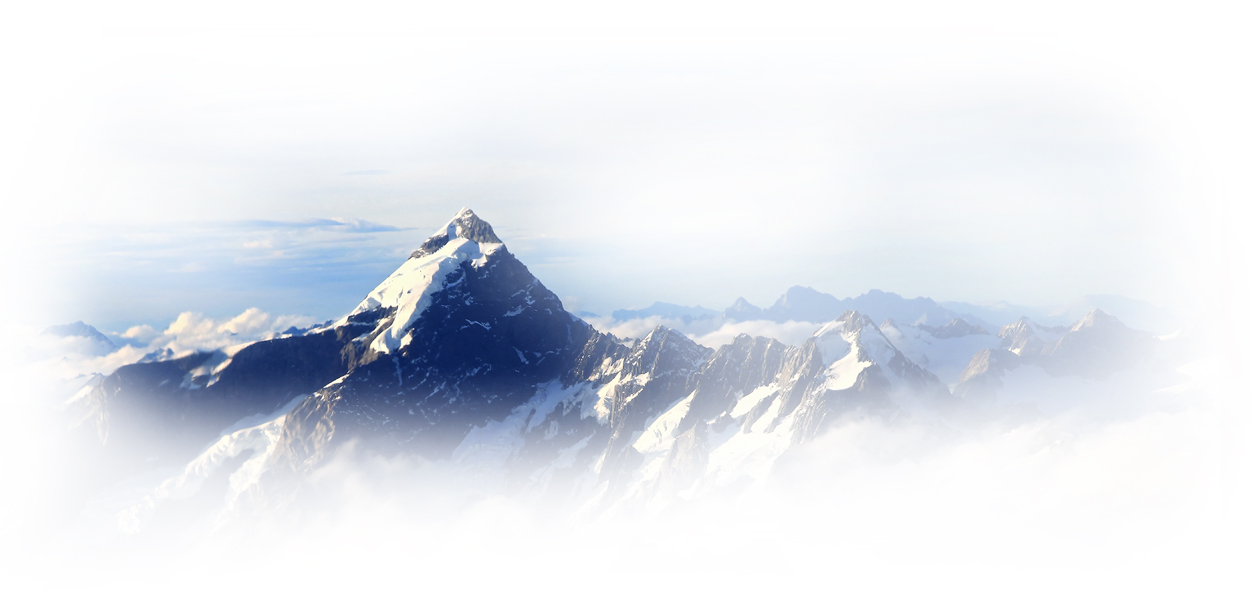
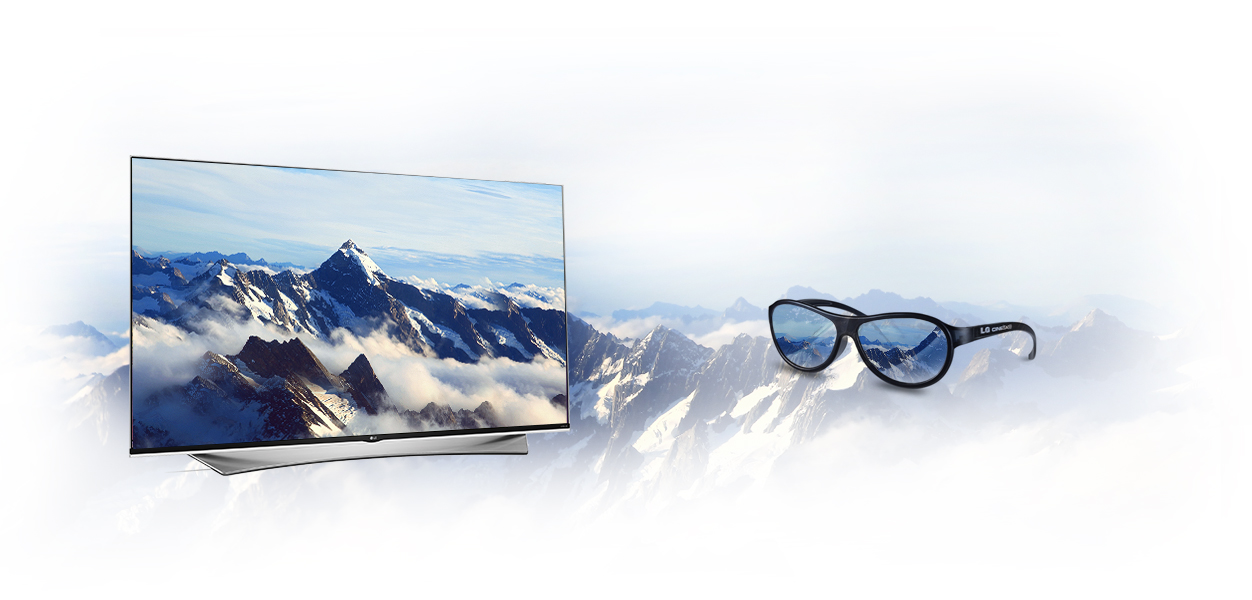
fix block 3d

Changed region(s): [[0.0935, 0.24, 0.4673, 0.81], [0.5919, 0.48, 0.8411, 0.66]]

diff --git a/dist/assets/styles/common.css b/dist/assets/styles/common.css
@@ -1298,25 +1298,6 @@ This must be run when you have at least 2 sprites.
   background: url('../images/ultra/ultra3d-bg.jpg') 0 0 no-repeat;
 }
 /* line 24, css\new_design\blocks\ultra\ultra-3d.less */
-.ultra-3d__glasses {
-  position: relative;
-  z-index: 2;
-  margin: 46px 0 28px 35px;
-  width: 281px;
-  height: 115px;
-  background: url('../images/ultra/glasses-3d.png') 0 0 no-repeat;
-}
-/* line 33, css\new_design\blocks\ultra\ultra-3d.less */
-.ultra-3d__screen {
-  position: absolute;
-  z-index: 2;
-  top: 155px;
-  left: 0;
-  width: 524px;
-  height: 420px;
-  background: url('../images/ultra/screen-3d.png') 0 0 no-repeat;
-}
-/* line 43, css\new_design\blocks\ultra\ultra-3d.less */
 .ultra-3d__ball {
   position: absolute;
   z-index: 3;
@@ -1326,7 +1307,7 @@ This must be run when you have at least 2 sprites.
   height: 187px;
   background: url('../images/ultra/ball-3d.png') 0 0 no-repeat;
 }
-/* line 53, css\new_design\blocks\ultra\ultra-3d.less */
+/* line 34, css\new_design\blocks\ultra\ultra-3d.less */
 .ultra-3d__cloud {
   position: absolute;
   z-index: 5;
@@ -1336,7 +1317,7 @@ This must be run when you have at least 2 sprites.
   height: 212px;
   background: url('../images/ultra/cloud-3d.png') 0 0 no-repeat;
 }
-/* line 63, css\new_design\blocks\ultra\ultra-3d.less */
+/* line 44, css\new_design\blocks\ultra\ultra-3d.less */
 .ultra-3d__eagle {
   position: absolute;
   z-index: 4;
@@ -1345,6 +1326,22 @@ This must be run when you have at least 2 sprites.
   width: 291px;
   height: 140px;
   background: url('../images/ultra/eagle-3d.png') 0 0 no-repeat;
+}
+/* line 54, css\new_design\blocks\ultra\ultra-3d.less */
+.ultra-3d__logo {
+  margin: 31px 0 131px 272px;
+  background-image: url(../images/sprite.png);
+  background-position: -384px -49px;
+  width: 91px;
+  height: 27px;
+}
+/* line 59, css\new_design\blocks\ultra\ultra-3d.less */
+.ultra-3d__btn {
+  position: absolute;
+  z-index: 2;
+  width: 230px;
+  bottom: 95px;
+  left: 208px;
 }
 /* line 1, css\new_design\blocks\ultra\ips.less */
 .ips {
@@ -1852,7 +1849,11 @@ This must be run when you have at least 2 sprites.
 .button-feat_tt_up {
   text-transform: uppercase;
 }
-/* line 27, css\new_design\components\buttons.less */
+/* line 26, css\new_design\components\buttons.less */
+.button-feat_width_100p {
+  width: 100%;
+}
+/* line 31, css\new_design\components\buttons.less */
 .button {
   height: 32px;
   width: 125px;
@@ -1868,7 +1869,7 @@ This must be run when you have at least 2 sprites.
   box-shadow: inset 0 1px 3px rgba(255, 255, 255, 0.4);
   transition: all .3s ease;
 }
-/* line 42, css\new_design\components\buttons.less */
+/* line 46, css\new_design\components\buttons.less */
 .button:hover {
   background: linear-gradient(to bottom, #f21f69, #c80542);
   box-shadow: inset 0 1px 3px rgba(255, 255, 255, 0.2);

diff --git a/dist/ultra.html b/dist/ultra.html
@@ -112,14 +112,17 @@
 					<div class="ultra-3d-wrap">
 						<h2 role="heading" class="title">Великолепный 3D в 4K</h2>
 						<p class="text">Удовольствие от впечатляющей технологии CINEMA 3D ощутимо усиливается за счет четырехкратного прироста пикселей на экране ULTRA HD 4K. Изображение становится вдвое четче, сохраняя мельчайшие детали в 3D.</p>
-						<div class="ultra-3d__glasses"></div>
+						<div class="ultra-3d__logo"></div>
 						<p class="text">В отличие от традиционных 3D-телевизоров, модели с технологией LG CINEMA 3D обеспечивают высокий комфорт для зрителей: изображение более яркое и стабильное, без эффекта мерцания. Более того, стильные и недорогие 3D-очки LG не требуют подзарядки, что делает их легкими и удобными при длительном просмотре.</p>
 					</div>
 					<div class="ultra-3d__cloud"></div>
 					<div class="ultra-3d__eagle"></div>
 					<div class="ultra-3d__ball"></div>
-					<div class="ultra-3d__screen"></div>
 					<div class="ultra-3d__bg"></div>
+					<div class="ultra-3d__btn">
+						<button type="button" class="button-feat button-feat_width_100p"><span>Оцените разницу между</span>
+							<br><span>LG CINEMA 3D и обычным 3D</span></button>
+					</div>
 				</section>
 				<section class="ips">
 					<div class="ips-wrap">

diff --git a/css/new_design/blocks/ultra/ultra-3d.less b/css/new_design/blocks/ultra/ultra-3d.less
@@ -21,25 +21,6 @@
 		background: url('../images/ultra/ultra3d-bg.jpg') 0 0 no-repeat;
 	}
 
-	&__glasses {
-		position: relative;
-		z-index: 2;
-		margin: 46px 0 28px 35px;
-		width: 281px;
-		height: 115px;
-		background: url('../images/ultra/glasses-3d.png') 0 0 no-repeat;
-	}
-
-	&__screen {
-		position: absolute;
-		z-index: 2;
-		top: 155px;
-		left: 0;
-		width: 524px;
-		height: 420px;
-		background: url('../images/ultra/screen-3d.png') 0 0 no-repeat;
-	}
-
 	&__ball {
 		position: absolute;
 		z-index: 3;
@@ -68,6 +49,19 @@
 		width: 291px;
 		height: 140px;
 		background: url('../images/ultra/eagle-3d.png') 0 0 no-repeat;
+	}
+
+	&__logo {
+		margin: 31px 0 131px 272px;
+		.sprite(@logo-ultra-3d)
+	}
+
+	&__btn {
+		position: absolute;
+		z-index: 2;
+		width: 230px;
+		bottom: 95px;
+		left: 208px;
 	}
 
 }

diff --git a/css/new_design/components/buttons.less b/css/new_design/components/buttons.less
@@ -22,6 +22,10 @@
 	&_tt_up {
 		text-transform: uppercase;
 	}
+
+	&_width_100p {
+		width: 100%;
+	}
 }
 
 .button {
